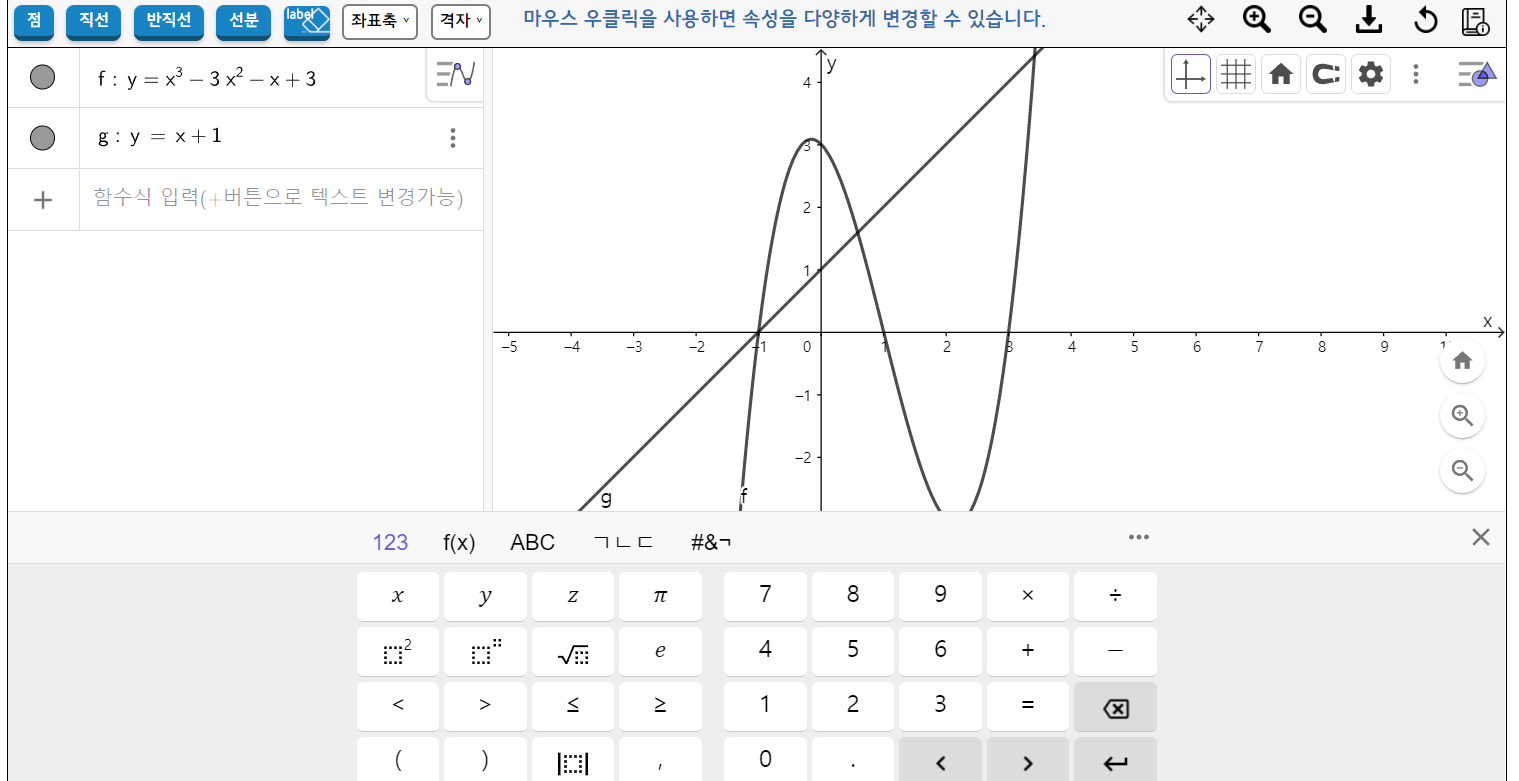
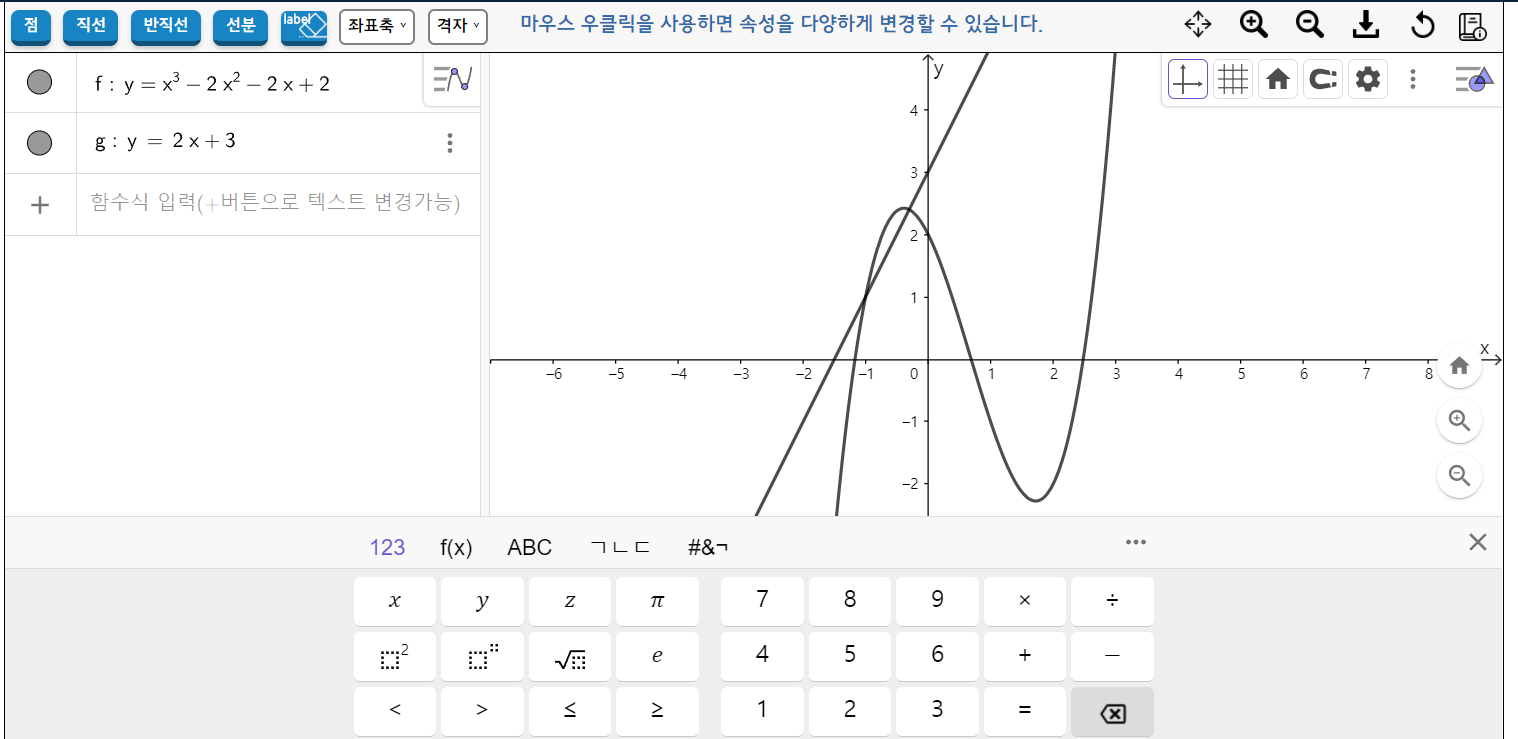
메인화면 변경

diff --git a/src/web/page/Main.js b/src/web/page/Main.js
@@ -19,8 +19,65 @@ const Main = ()=>{
             nb_fadeInOutA("감사합니다. 회원가입이 정상적으로 완료 되었습니다.", 2000);
             window.history.pushState("", "N명의 수학", '/');
         }
+
+        const Confettiful = function(el) {
+            this.el = el;
+            this.containerEl = null;
+            
+            this.confettiFrequency = 3;
+            this.confettiColors = ['#EF2964', '#00C09D', '#2D87B0', '#48485E','#EFFF1D'];
+            this.confettiAnimations = ['slow', 'medium', 'fast'];
+            
+            this._setupElements();
+            this._renderConfetti();
+          };
+          
+          Confettiful.prototype._setupElements = function() {
+            const containerEl = document.createElement('div');
+            const elPosition = this.el.style.position;
+            
+            if (elPosition !== 'relative' || elPosition !== 'absolute') {
+              this.el.style.position = 'relative';
+            }
+            
+            containerEl.classList.add('confetti-container');
+            
+            this.el.appendChild(containerEl);
+            
+            this.containerEl = containerEl;
+          };
+          
+          Confettiful.prototype._renderConfetti = function() {
+            this.confettiInterval = setInterval(() => {
+              const confettiEl = document.createElement('div');
+              const confettiSize = (Math.floor(Math.random() * 3) + 7) + 'px';
+              const confettiBackground = this.confettiColors[Math.floor(Math.random() * this.confettiColors.length)];
+              const confettiLeft = (Math.floor(Math.random() * this.el.offsetWidth)) + 'px';
+              const confettiAnimation = this.confettiAnimations[Math.floor(Math.random() * this.confettiAnimations.length)];
+              
+              confettiEl.classList.add('confetti', 'confetti--animation-' + confettiAnimation);
+              confettiEl.style.left = confettiLeft;
+              confettiEl.style.width = confettiSize;
+              confettiEl.style.height = confettiSize;
+              confettiEl.style.backgroundColor = confettiBackground;
+              
+              confettiEl.removeTimeout = setTimeout(function() {
+                confettiEl.parentNode.removeChild(confettiEl);
+              }, 3000);
+              
+              this.containerEl.appendChild(confettiEl);
+            }, 25);
+          };
+          
+          window.confettiful = new Confettiful(document.querySelector('.js-container'));
+          
+          
+          
     })
 
+
+
+    
     
 
 return (
@@ -36,6 +93,17 @@ return (
             <div className='mainImgDesc second'>문제 공유와 손쉬운 학습지 제작</div>
             <div className='mainTitle'>N명의 사용자와 만들어가는,<br/>수학문제 공유 플랫폼</div>
         </div>
+        
+        <div className='relative'>
+            <div className="js-container container"></div>
+            <div className='js-container-inner'>
+                <div className='mainSubTitle1'>N명의 공유플랫폼, &nbsp;&nbsp;&nbsp;<span className='mainSubTitileName'>"N명<span className='mainSubTitileName2'>의</span>수학"</span></div>
+                <div className='mainSubDesc2'>
+                지금 N명의 수학을 누려보세요!
+                </div>
+            </div>  
+        </div>
+
         <div className='mainSubRootDiv1'>
             <div className='mainSubDiv1'>
                 <div>
@@ -56,15 +124,22 @@ return (
                 <div className='mainSubBox second'><img className='mainImgUI' src={mainSubConMake2} alt=""/></div>
             </div>
             <div className='mainSubDiv2Desc'>
-                <div className='mainSubDescTitle first'>수학 문제 제작시 번거로운 수식기호 입력을 쉽고 빠르게</div>
-                <div className='mainSubDescContents'>
-                    N명의 수학에서 제공하는 문제 제작 툴에서는 교육과정 및 교과서, 참고서에 나오는 기호들로만 구성하여 원하는 기호를 빠르게 찾을 수 있고, <br/>
-                    사용 빈도 수가 높은 기호를 단축키화하여 빠르게 입력할 수 있도록하여 문제 제작시 불필요한 소요시간을 줄일 수 있습니다.</div>
-                <div className='mainSubDescTitle second'>편집본까지 함께 제공되어 원본 문제를 수정하여 새로운 문제를 만들 수 있습니다.</div>
-                <div className='mainSubDescContents'>
-                    N명의 수학에서 제공하는 모든 문제는 완성된 원본 뿐만 아니라<br/>
-                    해설이 포함된 편집본까지 함께 제공되어 사용자가 수정하여 새로운 변형문제로 만들어 낼 수 있습니다.<br/>
+                <div>
+                    <div className='mainSubDescTitle first'>쉽고 빠른 수식입력 문제 제작 툴!</div>
+                    <div className='mainSubDescContents'>
+                        교육과정 및 교과서, 참고서에 나오는 기호들로만 구성하여 원하는 수식 기호를 빠르게 찾을 수 있고, <br/>
+                        수식 기호를 단축키화하여 빠르게 입력할 수 있도록하여 문제 제작시 불필요한 소요시간을 줄일 수 있습니다.
+                    </div>
                 </div>
+                <div>
+                    <div className='mainSubDescTitle second'>편집본 제공으로 변형문제 제작 가능</div>
+                    <div className='mainSubDescContents'>
+                        N명의 수학에서 제공하는 모든 문제는 완성된 원본 뿐만 아니라<br/>
+                        해설이 포함된 편집본까지 함께 제공되어 사용자가 수정하여 새로운 변형문제로 만들어 낼 수 있습니다.<br/>
+                    </div>
+                </div>
+
+
             </div>
         </div>
         <div className='mainSubDiv3'>

diff --git a/src/css/main/main.css b/src/css/main/main.css
@@ -221,7 +221,7 @@
 .mainDiv{
     background-color: #eef6ff;
     position: relative;
-    height: 630px;
+    height: 95vh;
 }
 
 @keyframes target_updown1 {
@@ -302,6 +302,7 @@
 
 .mainSubRootDiv1, .mainSubRootDiv2{
     padding: 50px;
+    
 }
 
 .mainSubRootDiv2{
@@ -364,18 +365,29 @@
     margin-bottom: 30px;
 }
 
+.mainSubDesc2{
+    font-size: 18px;
+    margin:10px;
+    font-family: 'jejuGothic';
+    line-height: 180%;
+    margin-bottom: 30px;
+}
+
 .mainSubDiv2Title{
     font-family: 'TmoneyRoundWindExtraBold';
-    font-size: 20px;
+    font-size: 25px;
     width: 1000px;
     margin:10px auto;
 }
 
 .mainSubDiv2Desc{
     width: 1000px;
-    margin:10px auto;
+    margin:50px auto 20px auto;
     font-family: 'jejuGothic';
     line-height: 160%;
+    display: grid;
+    grid-template-columns: repeat(2, 1fr);
+    grid-gap: 40px;
 }
 
 .mainSubDiv2 .mainSubBox.first{
@@ -436,11 +448,9 @@
 .mainSubDescTitle{
     position: relative;
     margin: 0 0 7px 25px;
+    font-size: 22px;
 }
 
-.mainSubDescTitle.second{
-    margin-top:30px;
-}
 
 .mainSubDescTitle::before{
     display: inline-block;
@@ -470,11 +480,164 @@
 
 .mainSubDescContents{
     position: relative;
-    margin-left: 35px;
+    margin-left: 25px;
+    word-break: keep-all;
 }
 
-.mainSubDescContents::before{
-    content: '-';
+
+
+/*
+* congrate css[strt]
+*/
+body {
+    font-family: 'Roboto';
+    margin: 0;
+    padding: 0;
+  }
+  
+  @keyframes confetti-slow {
+    0% { transform: translate3d(0, 0, 0) rotateX(0) rotateY(0); }
+    
+    100% { transform: translate3d(25px, 105vh, 0) rotateX(360deg) rotateY(180deg); }
+  }
+  
+  @keyframes confetti-medium {
+    0% { transform: translate3d(0, 0, 0) rotateX(0) rotateY(0); }
+    
+    100% { transform: translate3d(100px, 105vh, 0) rotateX(100deg) rotateY(360deg); }
+  }
+  
+  @keyframes confetti-fast {
+    0% { transform: translate3d(0, 0, 0) rotateX(0) rotateY(0); }
+    
+    100% { transform: translate3d(-50px, 105vh, 0) rotateX(10deg) rotateY(250deg); }
+  }
+  
+
+  .container {
+    width: 98vw;
+    padding: 0;
+    height: 50vh;
+    margin: auto;
+    background: linear-gradient(white 0%, white 25%, rgba(237, 218, 243, 0.1) 50%, rgba(235, 235, 235, 0.5));
+    border:1px solid white;
+    display:fixed;
+    top:0px;
+  }
+  
+  .confetti-container {
+    perspective: 700px;
     position: absolute;
-    left: -10px;
+    overflow: hidden;
+    top: 0;
+    right: 0;
+    bottom: 0;
+    left: 0;
+  }
+  
+  .confetti {
+    position: absolute;
+    z-index: 1;
+    top: -10px;
+    border-radius: 0%;
+    animation: confetti-slow 3s linear 1 forwards;
+  }
+  
+  .js-container-inner{
+    text-align:center;
+    margin-top:30px;
+    position: absolute;
+    top:45%;
+    left: 50%;
+    transform: translate(-50%, -50%);
+  }
+  
+  @-webkit-keyframes checkmark {
+    0% {
+      height: 0;
+      width: 0;
+      opacity: 1;
+    }
+    20% {
+      height: 0;
+      width: 37.5px;
+      opacity: 1;
+    }
+    40% {
+      height: 75px;
+      width: 37.5px;
+      opacity: 1;
+    }
+    100% {
+      height: 75px;
+      width: 37.5px;
+      opacity: 1;
+    }
+  }
+  @-moz-keyframes checkmark {
+    0% {
+      height: 0;
+      width: 0;
+      opacity: 1;
+    }
+    20% {
+      height: 0;
+      width: 37.5px;
+      opacity: 1;
+    }
+    40% {
+      height: 75px;
+      width: 37.5px;
+      opacity: 1;
+    }
+    100% {
+      height: 75px;
+      width: 37.5px;
+      opacity: 1;
+    }
+  }
+  @keyframes checkmark {
+    0% {
+      height: 0;
+      width: 0;
+      opacity: 1;
+    }
+    20% {
+      height: 0;
+      width: 37.5px;
+      opacity: 1;
+    }
+    40% {
+      height: 75px;
+      width: 37.5px;
+      opacity: 1;
+    }
+    100% {
+      height: 75px;
+      width: 37.5px;
+      opacity: 1;
+    }
+  }
+  
+  
+/*
+* congrate css[end]
+*/
+
+.mainSubTitle1{
+    font-family: 'GmarketSansBold';
+    font-size: 25px;
+    color: #3e6599;
+    padding: 10px 0;
+    text-align: center;
+    letter-spacing: 1px;
+}
+
+.mainSubTitileName{
+    font-size: 35px;
+    letter-spacing: 2px;
+}
+
+.mainSubTitileName2{
+    font-size: 25px;
 }
